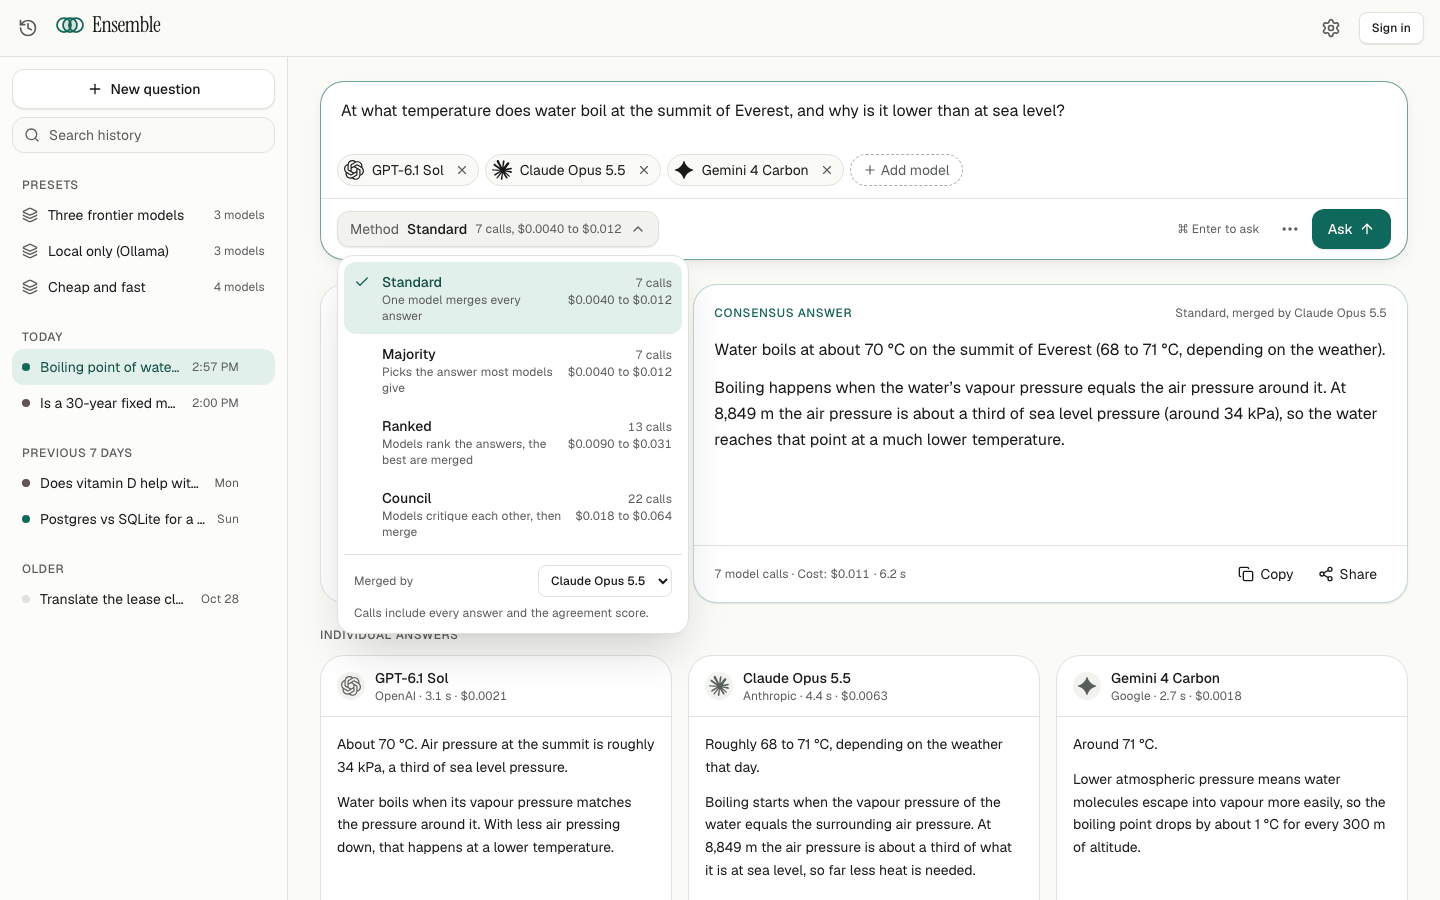
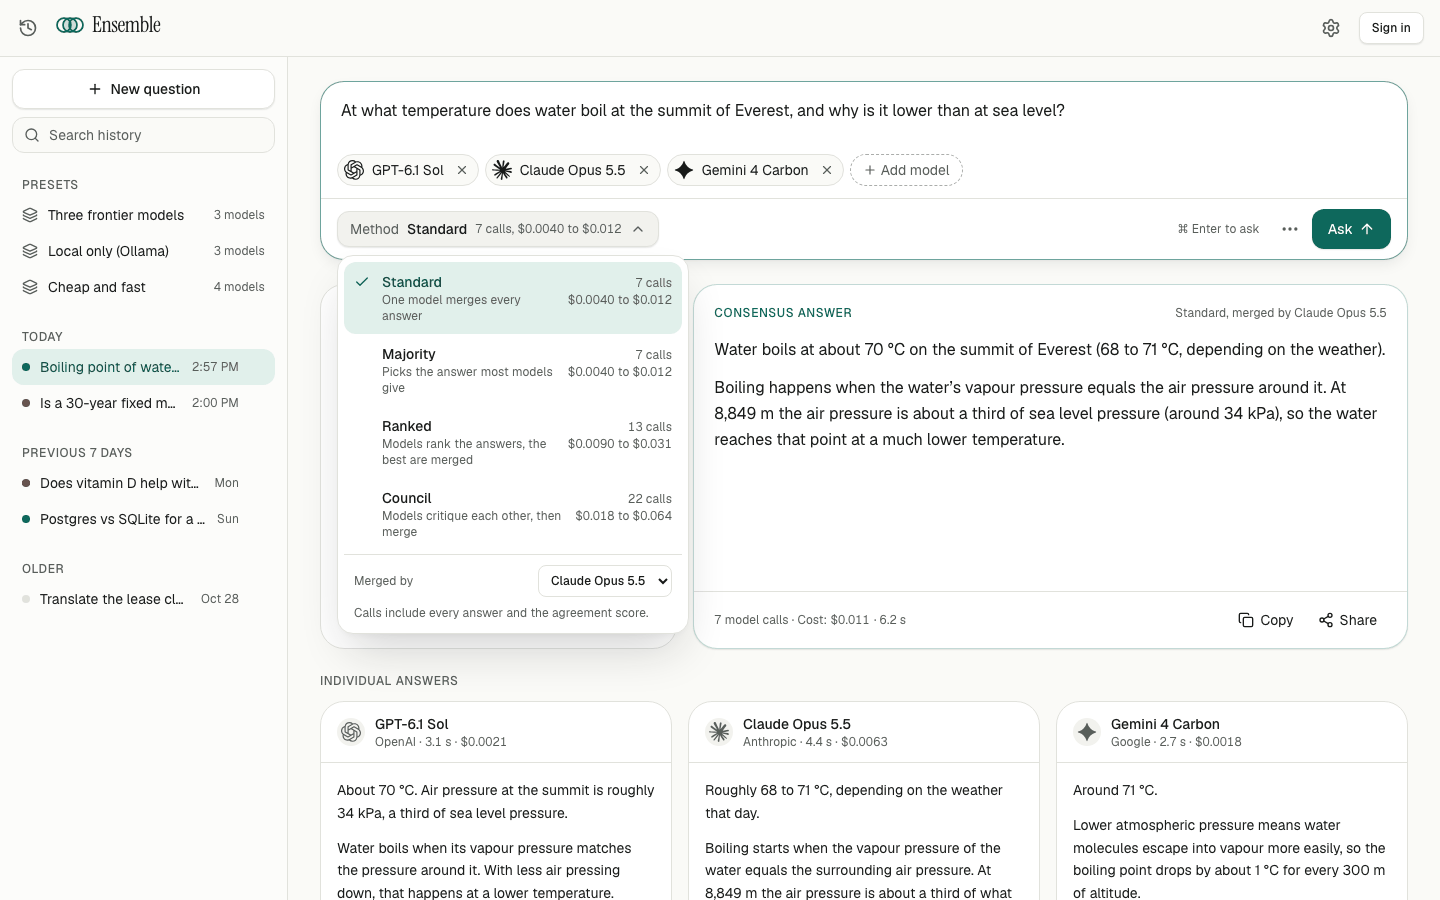
fix(component-library): shape the pending calibration placeholder like the uncalibrated note
Recapture the cl-workspace, cl-running, cl-method and cl-models screenshots,
which now show the uncalibrated badge and hint every real run shows, and the
pending placeholders.

diff --git a/packages/component-library/src/components/molecules/AgreementSummary/AgreementSummary.tsx b/packages/component-library/src/components/molecules/AgreementSummary/AgreementSummary.tsx
@@ -105,8 +105,11 @@ export function AgreementSummary({ status, score = 0, pairs = [], thresholds, ca
                 </div>
               </div>
             )}
-            <div data-testid="agreement-calibration-skeleton" className="mt-auto pt-4">
-              <div className="h-5 w-4/5 rounded bg-muted" />
+            {/* Shaped like the uncalibrated badge and hint, which every run shows until a model is calibrated. */}
+            <div data-testid="agreement-calibration-skeleton" className="mt-auto space-y-2 pt-4">
+              <div className="h-5 w-24 rounded-full bg-muted" />
+              <div className="h-3.5 w-full rounded bg-muted" />
+              <div className="h-3.5 w-3/5 rounded bg-muted" />
             </div>
           </div>
         </>
